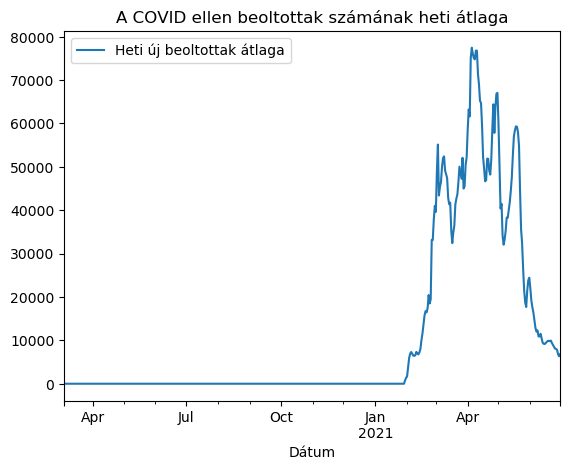
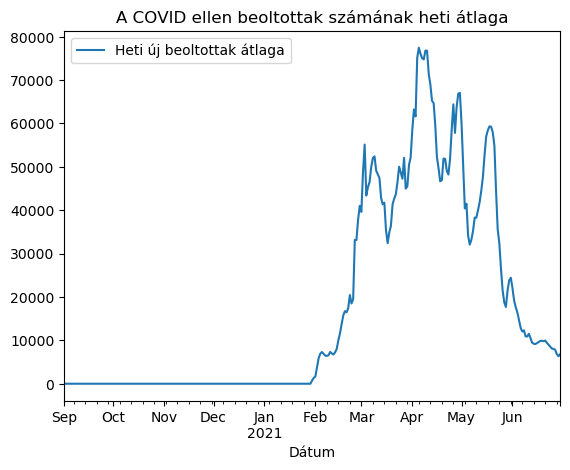
Fontosabb részek kiemelése

diff --git a/kép_alapbetegség_nélküli_elhunytak.py b/kép_alapbetegség_nélküli_elhunytak.py
@@ -16,12 +16,14 @@ def isHealthy(c):
     return ('nem' in lower) and ('ismert' in lower)
 
 dfcv = pd.read_csv(BASEDIR +"/adatok/covidadatok.csv", parse_dates=['Dátum'])
+dfcv = dfcv[dfcv['Dátum'] >= "2020-07-01"].reset_index()
 dfcvroll = dfcv.rolling(7, center=True, min_periods=7).sum()
 dfcv['Heti halálozás'] = dfcvroll['Napi új elhunyt']
 dfcv['Heti új beoltott'] = dfcvroll['Napi új beoltott']
 
 df = pd.read_csv(BASEDIR +"/adatok/elhunytak_datummal.csv", parse_dates=['Dátum'])
 df = df[np.vectorize(isHealthy)(df['Alapbetegségek'])].reset_index()
+df = df[df['Dátum'] >= "2020-07-01"].reset_index()
 dfnapimind = df.groupby('Dátum', as_index=False).count()
 dfnapimind = dfnapimind[['Dátum','Alapbetegségek']].rename(columns = {'Alapbetegségek': 'Napi nem ismert alapbetegség'}, inplace = False)
 
@@ -73,6 +75,7 @@ leg.texts[1].set_color(p2.get_color())
 
 par2.yaxis.get_label().set_color(p3.get_color())
 leg.texts[2].set_color(p3.get_color())
+
 
 fig = host.get_figure()
 fig.autofmt_xdate()

diff --git a/kép_covid_oltottak.py b/kép_covid_oltottak.py
@@ -9,6 +9,7 @@ import os
 BASEDIR=os.path.dirname(__file__)
 
 df = pd.read_csv(BASEDIR +"/adatok/covidadatok.csv", parse_dates=['Dátum'])
+df = df[df['Dátum'] >= "2020-09-01"].reset_index()
 
 dfheti = df.rolling(7, center=True, min_periods=4).mean()
 df['Heti új beoltottak átlaga'] = dfheti['Napi új beoltott']
